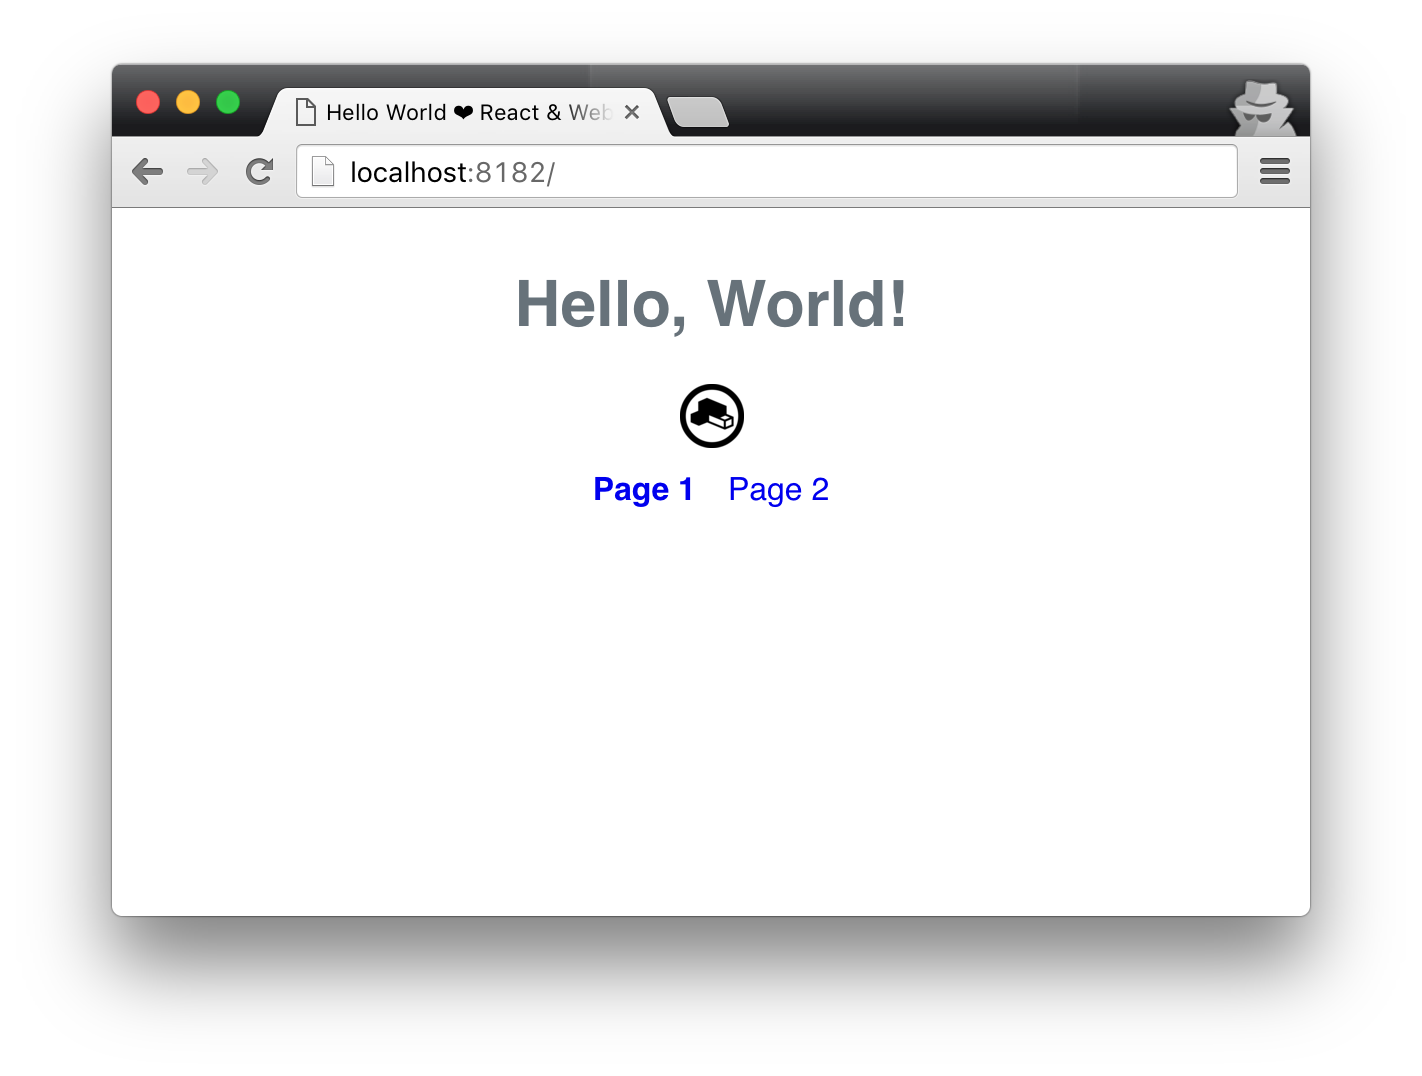
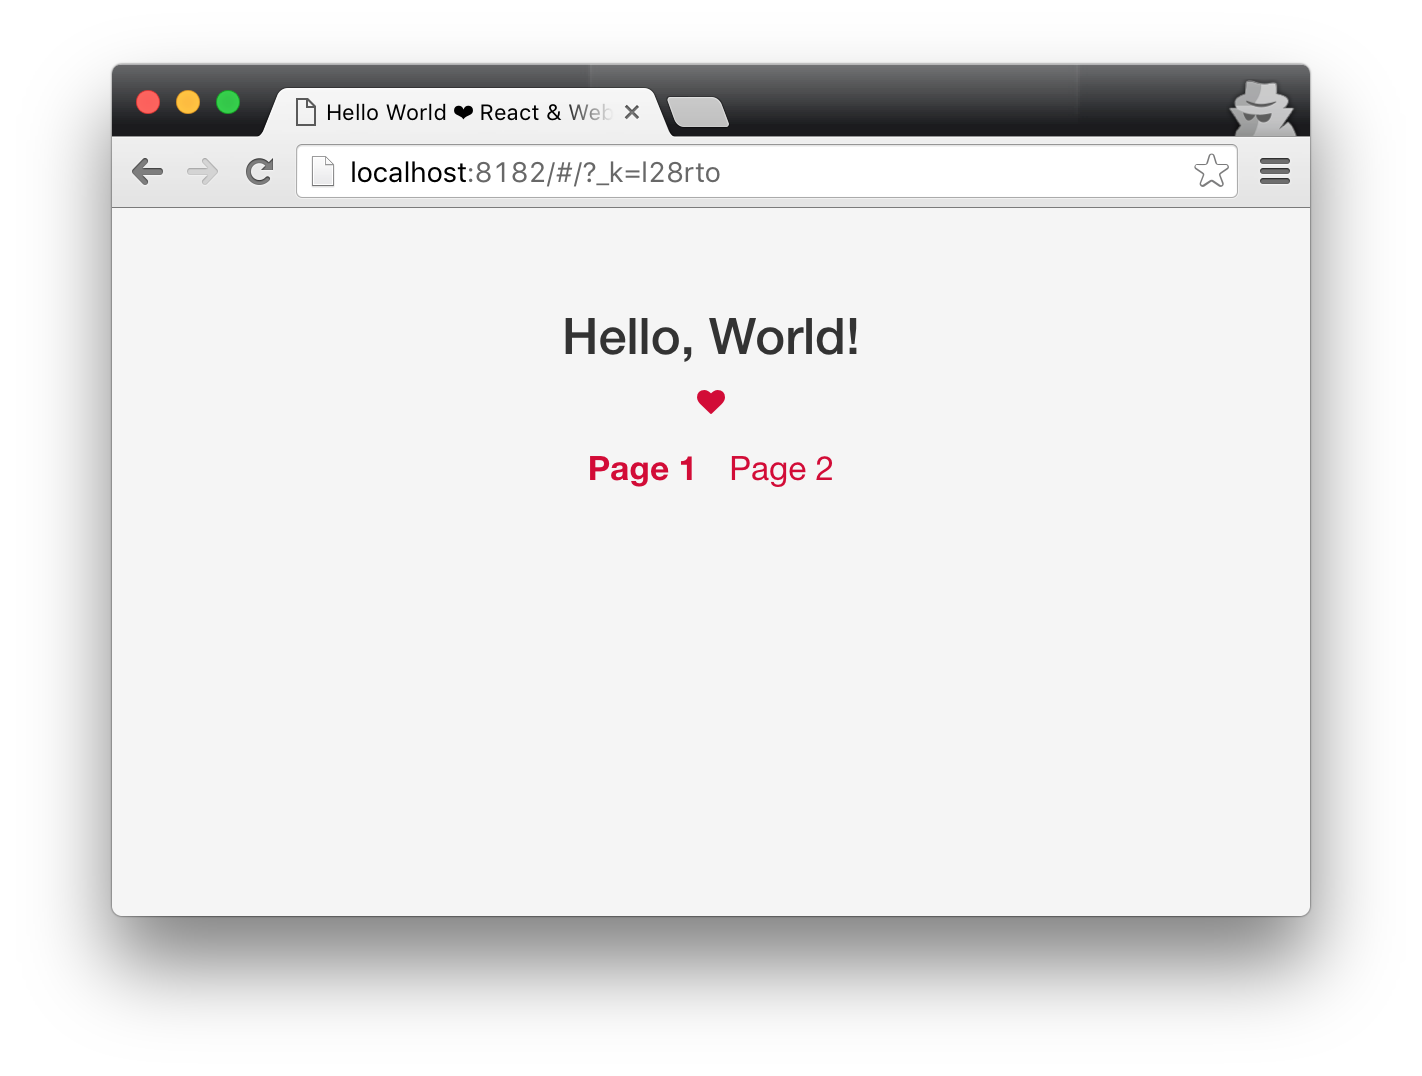
updating docs

Changed region(s): [[0.3404, 0.2454, 0.6498, 0.4907], [0.4023, 0.1533, 0.4951, 0.184], [0.8354, 0.1533, 0.8664, 0.184]]

diff --git a/README.md b/README.md
@@ -1,6 +1,6 @@
 # electron-react-webpack-quick-start
 
-A minimal web application with [React](https://facebook.github.io/react/) and [Webpack](https://webpack.github.io/). ES6/ES2015 support using [Babel](https://babeljs.io/). SCSS support using [PostCss](https://github.com/postcss/postcss) and [Bootstrap](http://getbootstrap.com/).
+A minimal web application with [React + Router](https://facebook.github.io/react/) and [Webpack](https://webpack.github.io/). ES6/ES2015 support using [Babel](https://babeljs.io/). SCSS styling with [PostCss](https://github.com/postcss/postcss) and [Bootstrap](http://getbootstrap.com/).
 
 ![Image](https://github.com/jogleasonjr/react-webpack-scss-quickstart/blob/master/screenshots/dev-server.png)
 
